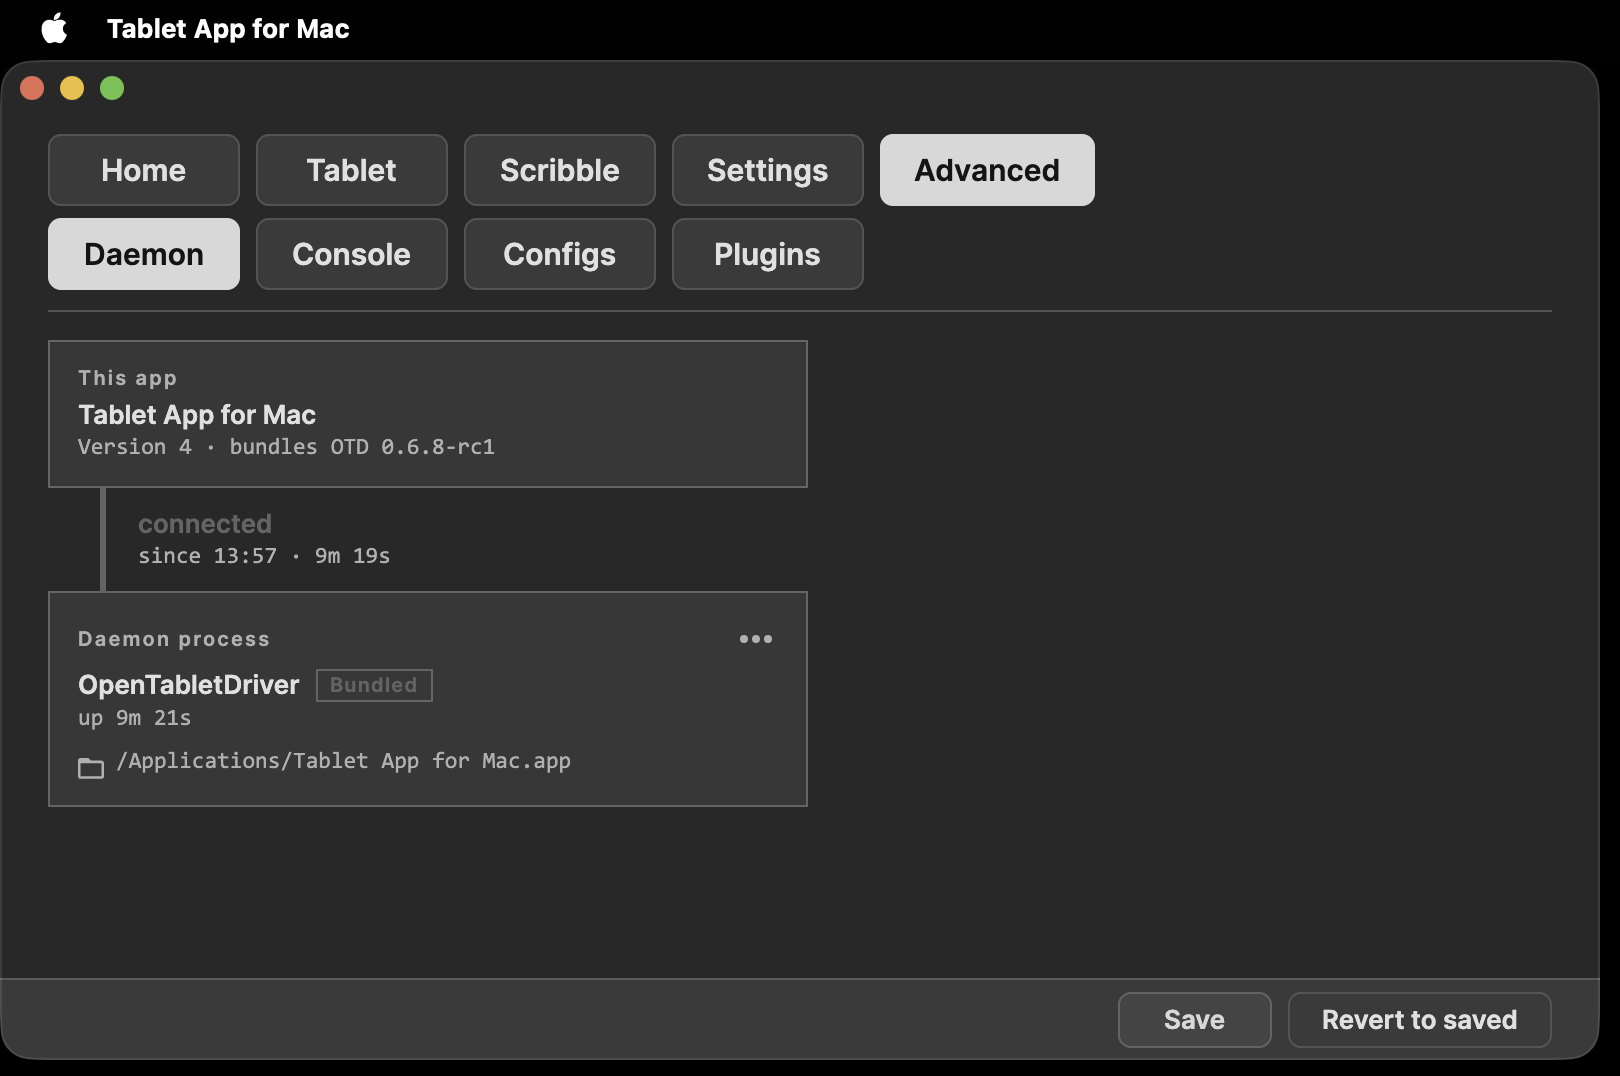
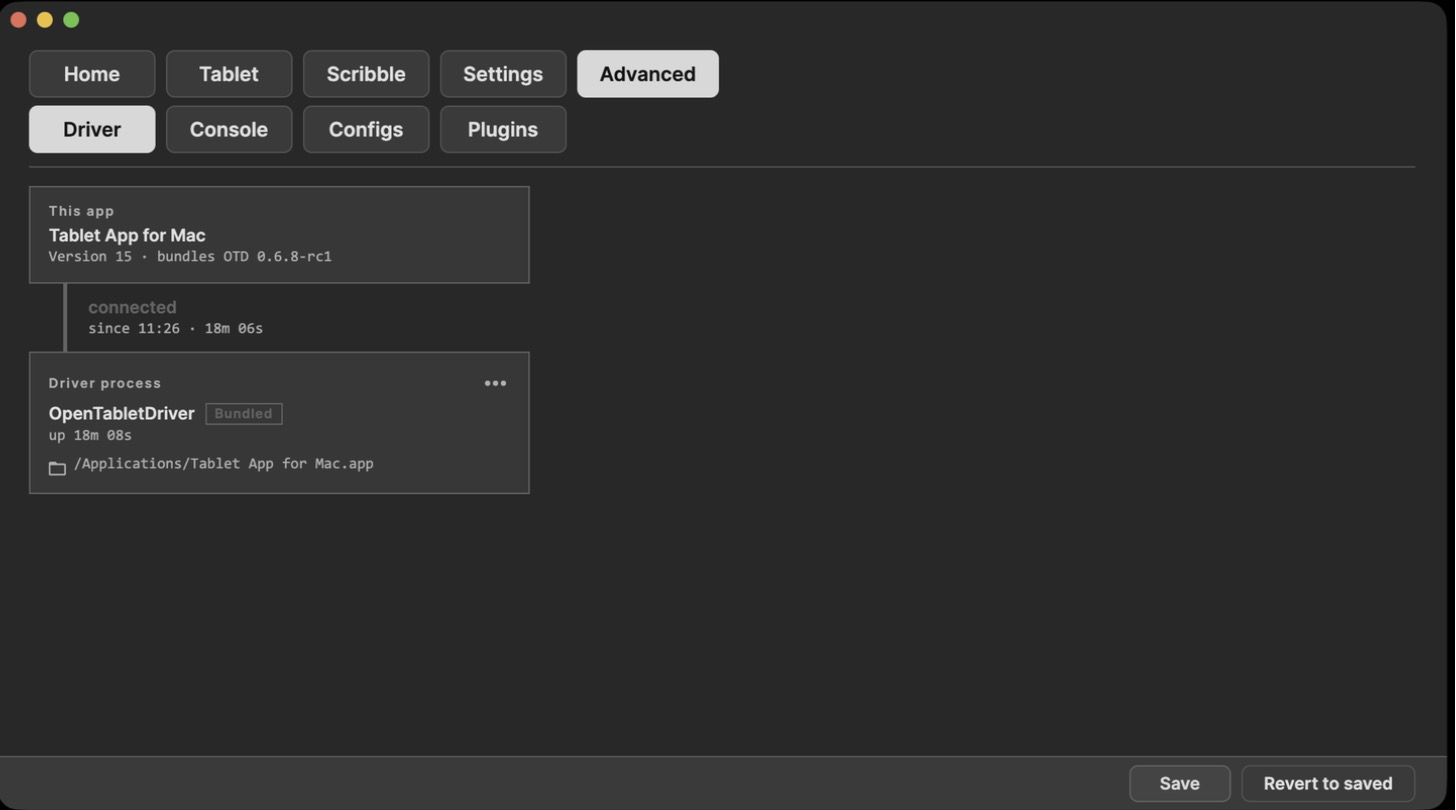
Manual: brought up to date for Version 15 (Zak: manuals follow every version)
Zak (27 Oct 2026): 'The manuals should always be updated along the new app
versions.' The manual still said Version 7, 'daemon', Intel, and monthly
update checks, and missed Versions 8-15.
- Cover line Version 15; 'driver' throughout (pen menu items, Driver page,
  json, Refresh); no Intel.
- Language in Settings › System; Device and Tool + / −; extra pen tiles
  (per-pen tip, eraser and side buttons); Application + with Command-click,
  live switching, mapping and pressure shared.
- Updating: weekly check, stable / BETA choice, Go back, Update automatically
  never installs a BETA, Earlier versions…; Going back uses it.
- Advanced: Driver card and its ⋯ menu, Configs, Diagnostics only with
  Settings › Dev; pen menu: Check for updates now.
- Glossary: Driver, BETA.
- New Version 15 pictures from Zak's Mac: Home (02, 85), Advanced › Driver
  (78), pen menu (86); the old ones showed 'Daemon'.

Claude-Session: https://claude.ai/code/session_01Jydxp2SiDwWyBLWbzC1CQp

Changed region(s): [[0.0, 0.0, 1.0, 1.0], [0.0, 0.8951, 0.0309, 0.9259]]

diff --git a/OpenTabletArtist/Assets/manual/manual.md b/OpenTabletArtist/Assets/manual/manual.md
@@ -1,6 +1,6 @@
 # Tablet App for Mac – User Manual
 
-Version 7. British English. Screens are real screenshots from a Mac running earlier versions, so some may differ slightly.
+Version 15. British English. Screens are real screenshots from a Mac running earlier versions, so some may differ slightly.
 
 ## Before you start
 
@@ -29,11 +29,11 @@ Tested only on an Apple silicon Mac with macOS 27.0.1 and a Wacom Intuos4 Small 
 
 ## Introduction and requirements
 
-Tablet App for Mac sets up a pen tablet on macOS: pen feel, buttons, mapping, ExpressKeys and Touch Ring modes, with per-app settings. Tablet input comes from the OpenTabletDriver daemon, which the app starts.
+Tablet App for Mac sets up a pen tablet on macOS: pen feel, buttons, mapping, ExpressKeys and Touch Ring modes, with per-app settings. Tablet input comes from the tablet driver, built on OpenTabletDriver, which the app starts.
 
-- A Mac with Apple silicon (tested) or Intel (untested).
+- A Mac with Apple silicon.
 - macOS 15 or later (the versions .NET 10 supports: 15, 26 and 27).
-- The OpenTabletDriver daemon (included in the app).
+- The tablet driver, built on OpenTabletDriver (included in the app).
 - Input Monitoring and Accessibility permissions (Accessibility is called Device Control and Data Access on macOS 27).
 - Uninstall the Wacom driver first, as both can't run at once.
 
@@ -59,9 +59,10 @@ Tablet App for Mac sets up a pen tablet on macOS: pen feel, buttons, mapping, Ex
 ![The Touch ID prompt for Privacy & Security, with Use Password… and Cancel](img/install-04-touch-id.png)
 
 - macOS asks for **Input Monitoring** (to read the tablet) and **Accessibility** (to send keys and clicks). Allow both in System Settings › Privacy & Security, then relaunch the app.
-- The app starts its OpenTabletDriver daemon. The menu bar icon stays while it runs.
+- The app starts its tablet driver. The pen icon stays in the menu bar while it runs.
 - To start the app when you log in, switch on **Start automatically when I log in** in **Settings › System** (or add it in System Settings › General › Login Items). At login the app starts silently: only the pen icon in the menu bar shows. Click it to open the window.
 - Only one copy runs. Opening the app again brings the running copy to the front.
+- To change the language, choose it under **Settings › System › Language**. **Match system** follows your Mac's language.
 
 ## Home
 
@@ -70,14 +71,15 @@ Tablet App for Mac sets up a pen tablet on macOS: pen feel, buttons, mapping, Ex
 - **Your tablets**: one card per connected or remembered tablet. Click a card to open its settings.
 - Card **⋯** menu: **Open tablet settings**, **Forget this tablet**.
 - Health rows: problems found, each with **Fix** or a specific action where one exists. **Fix** works with the pen even while the pen tip or eraser is disabled.
-- **Open daemon page**: shown when the daemon is not reachable.
+- **Open driver page**: shown when the driver is not reachable.
+- **Check for updates now** and **Earlier versions…**: see Updating.
 
 ## Tablet page layout
 
-- **Device**: the selected tablet. The switcher lists connected and remembered tablets.
-- **Tool**: **Functions** (ExpressKeys, Touch ring), **Pen** (pen, eraser, mapping), **More** (about, calibration, hover, filters, json).
-- **Application**: **All**, or a specific app. **+** adds an app with its own settings; **−** removes it.
-- **Refresh** reloads the tablet's settings from the daemon.
+- **Device**: the selected tablet. The switcher lists connected and remembered tablets. **+** explains how to add a tablet: connect it to your Mac and it appears by itself. **−** forgets the selected tablet and its settings (it asks first).
+- **Tool**: **Functions** (ExpressKeys, Touch ring), **Pen** (pen, eraser, mapping), a tile for each extra pen, and **More** (about, calibration, hover, filters, json). **+** explains how to add a pen: bring it close to the tablet and it gets its own tile. **−** removes the selected extra pen's settings; the main pen can't be removed.
+- **Application**: **All**, or a specific app. **+** adds apps (Command-click to choose several at once). Each added app keeps its own ExpressKeys, Touch Ring and pen tip and button actions, which switch when that app comes to the front; a switch waits until the pen tip is lifted, so a stroke is not interrupted. Mapping and pressure stay the same for every app. **−** removes the selected app's settings; it then uses **All** again.
+- **Refresh** reloads the tablet's settings from the driver.
 - Footer: **Options…** (Settings), **?** (this manual).
 
 ## Tablet › Pen
@@ -97,6 +99,8 @@ Tablet App for Mac sets up a pen tablet on macOS: pen feel, buttons, mapping, Ex
 | Disable pen tip | Off | The tip makes no strokes; the bar reads 0%. |
 | Disable pressure sensitivity | Off | Every stroke uses the Manual Pen Tip Pressure while pressed, in every app. |
 | Manual Pen Tip Pressure | 30% | Own frame under Tip Feel. The pressure used while pressure sensitivity is off (0 to 100%). |
+
+**Extra pens:** each pen you use on the tablet gets its own tile in the Tool row, with its own tip, eraser and side-button settings (a copy of the main pen's to start with). Tip Feel, pressure, tilt and mapping are shared by all pens.
 
 ## Tablet › Eraser
 
@@ -159,7 +163,7 @@ Function editor: **Keyboard** (a shortcut; Cmd, Ctrl, Shift and Option are held 
 - **calibration**: **Start** shows full-screen targets; tap each, then **Apply**. **More calibration actions**: **View report…**, **Export calibration…**, **Import calibration…**, **Clear calibration**. The on/off switch compares with and without the correction. Calibrate only if the pointer sits away from the nib.
 - **hover** (below): hover limit, off by default; 127 when first switched on (0 to 255). Stops cursor tracking past this distance.
 - **filters**: the OpenTabletDriver filters on this tablet.
-- **json**: the profile as the daemon stores it.
+- **json**: the profile as the driver stores it.
 
 ![More › Hover](img/49-hover-limit.png)
 
@@ -180,13 +184,13 @@ A test canvas with a precise crosshair cursor. If the canvas says "Drawing is of
 
 ## Advanced
 
-![Advanced › Daemon](img/78-daemon-page.png)
+![Advanced › Driver](img/78-daemon-page.png)
 
-- **Daemon**: status; **Start**, **Restart**, **Stop**, **Open OpenTabletDriver's interface**, **Open the folder holding this daemon**.
+- **Driver**: the **Driver process** card, with **Start**, **Restart** and **Stop** in its **⋯** menu; **Open OpenTabletDriver's own window**; **Open the folder holding this driver**.
 - **Plugins**: **Rescan plugin folder**, **Open plugin folder**.
-- **Tablet configs**: **Check for more configs**, **Install**, **View**.
+- **Configs** (tablet configs): **Check for more configs**, **Install**, **View**.
 - **Console**: severity filter, text filter, **Auto-scroll** (on), copy as text, Markdown or HTML, **Clear**.
-- **Diagnostics**: **Start** and **Stop** live reports.
+- **Diagnostics** (shown when **Settings › Dev** turns it on): **Start** and **Stop** live reports.
 
 ## About and Options
 
@@ -205,24 +209,25 @@ The pen icon in the menu bar at the top of the screen shows that Tablet App for 
 
 ![The pen icon in the menu bar with its menu open](img/86-pen-menu.png)
 
-The **daemon** is the background part of the app that reads the pen and moves the pointer. It keeps working while the window is closed.
+The **driver** is the background part of the app that reads the pen and moves the pointer. It keeps working while the window is closed.
 
 - **Show Tablet App for Mac** opens the app's window.
 - **Switch Display** chooses which screen the tablet draws on, when you have more than one screen.
-- **Restart Daemon** stops the background part and starts it again. Try this first if the pen stops responding.
-- **Stop Daemon** stops the background part, so the pen stops working until you start it again. While it is stopped, the menu shows **Start Daemon** instead.
+- **Restart Driver** stops the background part and starts it again. Try this first if the pen stops responding.
+- **Stop Driver** stops the background part, so the pen stops working until you start it again. While it is stopped, the menu shows **Start Driver** instead.
+- **Check for updates now** checks for a new version (see Updating).
 - **Quit** closes the app and removes the pen icon. The background part keeps running, so the pen still works with the settings you saved.
-- **Quit and stop the daemon** closes the app and stops the background part too, so the pen stops working until you open the app again.
+- **Quit and stop the driver** closes the app and stops the background part too, so the pen stops working until you open the app again.
 
 ## Quitting
 
 - **Cmd+Q** closes the window. The app stays in the menu bar and the tablet keeps working.
-- **Quit** in the pen menu closes the app; **Quit and stop the daemon** also stops the pen (see The pen menu). With unsaved changes it asks "Save changes before quitting?": **Cancel** keeps the app open, **Don't Save** quits without saving, **Save** saves and quits.
+- **Quit** in the pen menu closes the app; **Quit and stop the driver** also stops the pen (see The pen menu). With unsaved changes it asks "Save changes before quitting?": **Cancel** keeps the app open, **Don't Save** quits without saving, **Save** saves and quits.
 - Quitting also happens at shutdown and logout; unsaved changes are then kept and offered at the next launch.
 
 ## Tested system and tablet
 
-macOS 27.0.1 on Apple silicon, Wacom Intuos4 Small (PTK-440). Nothing else has been tested; the Intel version is untested.
+macOS 27.0.1 on Apple silicon, Wacom Intuos4 Small (PTK-440). Nothing else has been tested.
 
 ## Wacom driver conflict
 
@@ -230,12 +235,12 @@ The Wacom driver and OpenTabletDriver cannot both use the tablet. Quit or uninst
 
 ## Updating
 
-- From Version 7, the app checks for updates once a month. When there is a new version, it asks **Update now?** Click **Update now** and the app downloads it, checks it, installs it and opens again by itself.
-- To check any time, click **Check for updates now** on **Home** (top right, under the About links).
-- **Update automatically** is an optional setting just below it. It is off unless you turn it on.
+- The app checks for updates once a week when it starts. When there is a new stable version, it asks **Update now?** Click **Update now** and the app downloads it, checks it, installs it and opens again by itself.
+- To check any time, click **Check for updates now** on **Home** (top right, under the About links). When there is a choice, Home shows **Install Version N** (the newest stable version) and **Try Version N BETA M** (a BETA: new features, not tested yet). While you use a BETA, **Go back to Version N** returns you to the stable version.
+- **Update automatically** is an optional setting just below it. It is off unless you turn it on. When it is on, the app downloads a new stable version by itself, then asks for OK before installing. It never installs a BETA by itself.
 - To go back to an earlier version, click **Earlier versions…** on **Home** and choose one of the two stable versions before yours. This works from a stable version and from a BETA. Your settings stay.
 
-![Home with Check for updates now, the message You have the latest version, and the Update automatically setting](img/85-home-updates.png)
+![Home with Check for updates now, Earlier versions…, the message You have the latest version, and the Update automatically setting](img/85-home-updates.png)
 
 - After an update, macOS may ask for the two permissions again (Input Monitoring and Device Control and Data Access). The setup window opens and walks you through it.
 - **Coming from Version 6:** install Version 7 by hand once (see Install and first launch), then redo both permissions once. In System Settings › Privacy & Security, open **Input Monitoring** and **Device Control and Data Access** (called **Accessibility** on older macOS). In each, select Tablet App for Mac, remove it with **−**, add it again with **+**, and switch it on. The setup window walks you through this.
@@ -243,7 +248,7 @@ The Wacom driver and OpenTabletDriver cannot both use the tablet. Quit or uninst
 
 ## Going back to an earlier build
 
-Download the earlier build from Releases and replace the app. Settings are kept. Re-add the permissions as under Updating if needed.
+Click **Earlier versions…** on **Home** (Version 15 and later), or download an earlier build from Releases and replace the app. Settings are kept. Re-add the permissions as under Updating if needed.
 
 ## Uninstalling
 
@@ -264,6 +269,8 @@ Tablet App for Mac is a modified version of OpenTabletArtist by TheSevenPens (GP
 - **Preset**: a named copy of the whole configuration.
 - **Application row**: per-app settings; **All** applies everywhere else.
 - **Shared with Pen**: an Eraser setting that is the same setting as on the Pen tab.
+- **Driver**: the background part of the app that reads the pen and moves the pointer, built on OpenTabletDriver.
+- **BETA**: a new version that is not tested yet. You can go back to the stable version at any time.
 
 ## Not written here
 
